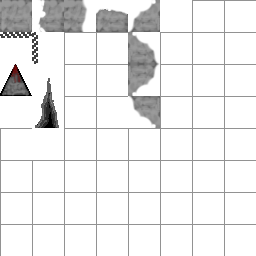
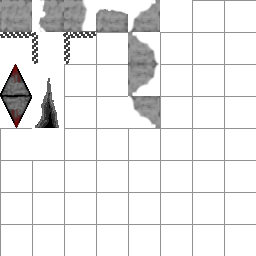
15:24:28.90: (17/04/2016)

Changed region(s): [[0.0, 0.375, 0.125, 0.5], [0.25, 0.0938, 0.375, 0.25]]

diff --git a/LudumDare35/res/Platforms.tsx b/LudumDare35/res/Platforms.tsx
@@ -1,0 +1,81 @@
+<?xml version="1.0" encoding="UTF-8"?>
+<tileset name="Platforms" tilewidth="32" tileheight="32" tilecount="64" columns="8">
+ <image source="Platforms.png" width="256" height="256"/>
+ <tile id="0">
+  <properties>
+   <property name="isSolid" value="true"/>
+  </properties>
+ </tile>
+ <tile id="1">
+  <properties>
+   <property name="isSolid" value="true"/>
+  </properties>
+ </tile>
+ <tile id="2">
+  <properties>
+   <property name="isSolid" value="true"/>
+  </properties>
+ </tile>
+ <tile id="3">
+  <properties>
+   <property name="isSolid" value="true"/>
+  </properties>
+ </tile>
+ <tile id="4">
+  <properties>
+   <property name="isSolid" value="true"/>
+  </properties>
+ </tile>
+ <tile id="8">
+  <properties>
+   <property name="collidesWith" value="bird"/>
+   <property name="isSolid" value="false"/>
+  </properties>
+ </tile>
+ <tile id="9">
+  <properties>
+   <property name="collidesWith" value="bird"/>
+   <property name="isSolid" value="false"/>
+  </properties>
+ </tile>
+ <tile id="12">
+  <properties>
+   <property name="isSolid" value="true"/>
+  </properties>
+ </tile>
+ <tile id="16">
+  <properties>
+   <property name="collidesWith" value="human"/>
+   <property name="harmful" value="all"/>
+   <property name="isSolid" value="false"/>
+  </properties>
+ </tile>
+ <tile id="17">
+  <properties>
+   <property name="isSolid" value="false"/>
+   <property name="isWarp" value="true"/>
+  </properties>
+ </tile>
+ <tile id="20">
+  <properties>
+   <property name="isSolid" value="true"/>
+  </properties>
+ </tile>
+ <tile id="24">
+  <properties>
+   <property name="isSolid" value="false"/>
+   <property name="isWarp" value="true"/>
+  </properties>
+ </tile>
+ <tile id="25">
+  <properties>
+   <property name="isSolid" value="false"/>
+   <property name="isWarp" value="true"/>
+  </properties>
+ </tile>
+ <tile id="28">
+  <properties>
+   <property name="isSolid" value="true"/>
+  </properties>
+ </tile>
+</tileset>

diff --git a/LudumDare35/res/Level.tsx b/LudumDare35/res/Level.tsx
@@ -1,0 +1,9 @@
+<?xml version="1.0" encoding="UTF-8"?>
+<tileset name="Level" tilewidth="32" tileheight="32" tilecount="64" columns="8">
+ <image source="Level.png" width="256" height="256"/>
+ <tile id="0">
+  <properties>
+   <property name="isSolid" value="false"/>
+  </properties>
+ </tile>
+</tileset>

diff --git a/LudumDare35/src/com/ld35/Player.java b/LudumDare35/src/com/ld35/Player.java
@@ -235,12 +235,12 @@ public class Player extends GameObject {
 		Level level = LevelManager.getCurrentLevel();
 		if (position.x < 0) {
 			position.x = 0;
-		} else if (position.x + 32 > level.getRealWidthInPixels()) {
-			position.x = level.getRealWidthInPixels() - 32;
-		}
-
+//		} else if (position.x + 32 > level.getRealWidthInPixels()) {
+//			position.x = level.getRealWidthInPixels() - 32;
+//		}
+//
 		if (position.y < 0) {
-			position.y = 0;
+			position.y = 0f;
 		}
 	}
 
@@ -287,7 +287,7 @@ public class Player extends GameObject {
 				if (xAndY) {
 					if (platformTile.isWarp()) {
 						AudioManager.playOnce(AudioManager.nextLevel);
-						GameManager.levelManager.gotoNextLevel();
+						GameManager.levelManager.gotoNextLevel(this, LudumDare35.gameManager.getCamera());
 					}
 					if (platformHealthTick >= healthDepleteInterval
 							&& platformTile.hurtsHumans()) {
@@ -307,7 +307,7 @@ public class Player extends GameObject {
 				if (xAndY) {
 					if (platformTile.isWarp()) {
 						AudioManager.playOnce(AudioManager.nextLevel);
-						GameManager.levelManager.gotoNextLevel();
+						GameManager.levelManager.gotoNextLevel(this, LudumDare35.gameManager.getCamera());
 					}
 					if (platformHealthTick >= healthDepleteInterval
 							&& platformTile.hurtsBirds()) {
@@ -373,7 +373,15 @@ public class Player extends GameObject {
 	public void setSpeed(float speed) {
 		this.speed = 0.4f;
 	}
-
+	
+	public void setX(float x) { 
+		this.position.x = x;
+	}
+	
+	public void setY(float y) {
+		this.position.y = y;
+	}
+	
 	public void reset() {
 		this.position.x = 0;
 		this.position.y = 480 - 64;

diff --git a/LudumDare35/src/com/ld35/managers/LevelManager.java b/LudumDare35/src/com/ld35/managers/LevelManager.java
@@ -1,13 +1,18 @@
 package com.ld35.managers;
 
 import org.newdawn.slick.GameContainer;
+import org.newdawn.slick.geom.Vector2f;
 
+import com.ld35.Camera;
+import com.ld35.Player;
 import com.ld35.levels.Level;
+import com.ld35.levels.LevelTwo;
 import com.ld35.levels.TestLevel;
 
 public class LevelManager {
 	private Level [] levels = {
-			new TestLevel()
+			new TestLevel(),
+			new LevelTwo(),
 	};
 	
 	private int index;
@@ -21,9 +26,12 @@ public class LevelManager {
 		this.index = 0;
 	}
 	
-	public void gotoNextLevel() {
+	public void gotoNextLevel(Player player, Camera camera) {
 		if(index != levels.length-1) {
 			index += 1;
+			player.setX(0);
+			player.setY(0);
+			camera.setPosition(new Vector2f(0, 0));
 		}
 	}
 	

diff --git a/LudumDare35/src/com/ld35/LudumDare35.java b/LudumDare35/src/com/ld35/LudumDare35.java
@@ -12,7 +12,7 @@ import com.ld35.managers.GameManager.GameState;
 import com.ld35.managers.GameObjectManager;
 
 public class LudumDare35 extends BasicGame{
-	private GameManager gameManager;
+	public static GameManager gameManager;
 	private boolean debug = false;
 	
 	public LudumDare35(String title) {

diff --git a/LudumDare35/src/com/ld35/levels/LevelTwo.java b/LudumDare35/src/com/ld35/levels/LevelTwo.java
@@ -1,0 +1,14 @@
+package com.ld35.levels;
+
+import org.newdawn.slick.GameContainer;
+
+public class LevelTwo extends Level{
+	public LevelTwo() {
+		super("/res/levelTwo.tmx");
+	}
+
+	public void tick(GameContainer gc, int delta) {
+		
+	}
+
+}

diff --git a/LudumDare35/src/com/ld35/engine/GameObject.java b/LudumDare35/src/com/ld35/engine/GameObject.java
@@ -22,6 +22,7 @@ public abstract class GameObject {
 	}
 	
 	public void setPosition(Vector2f position) {
+		System.out.println("HEllo!");
 		this.position = position;
 	}
 	

diff --git a/LudumDare35/src/com/ld35/managers/GameManager.java b/LudumDare35/src/com/ld35/managers/GameManager.java
@@ -113,4 +113,8 @@ public class GameManager {
 	public GameState getState() {
 		return state;
 	}
+	
+	public Camera getCamera() {
+		return camera;
+	}
 }
